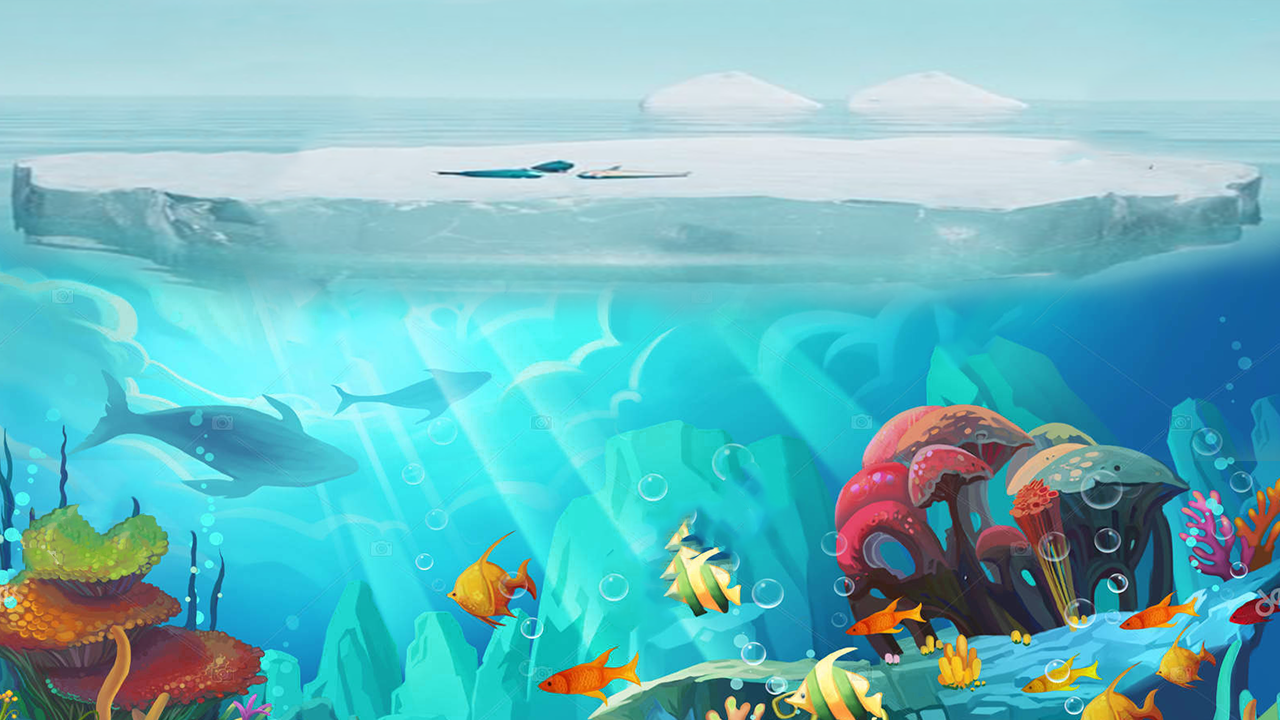
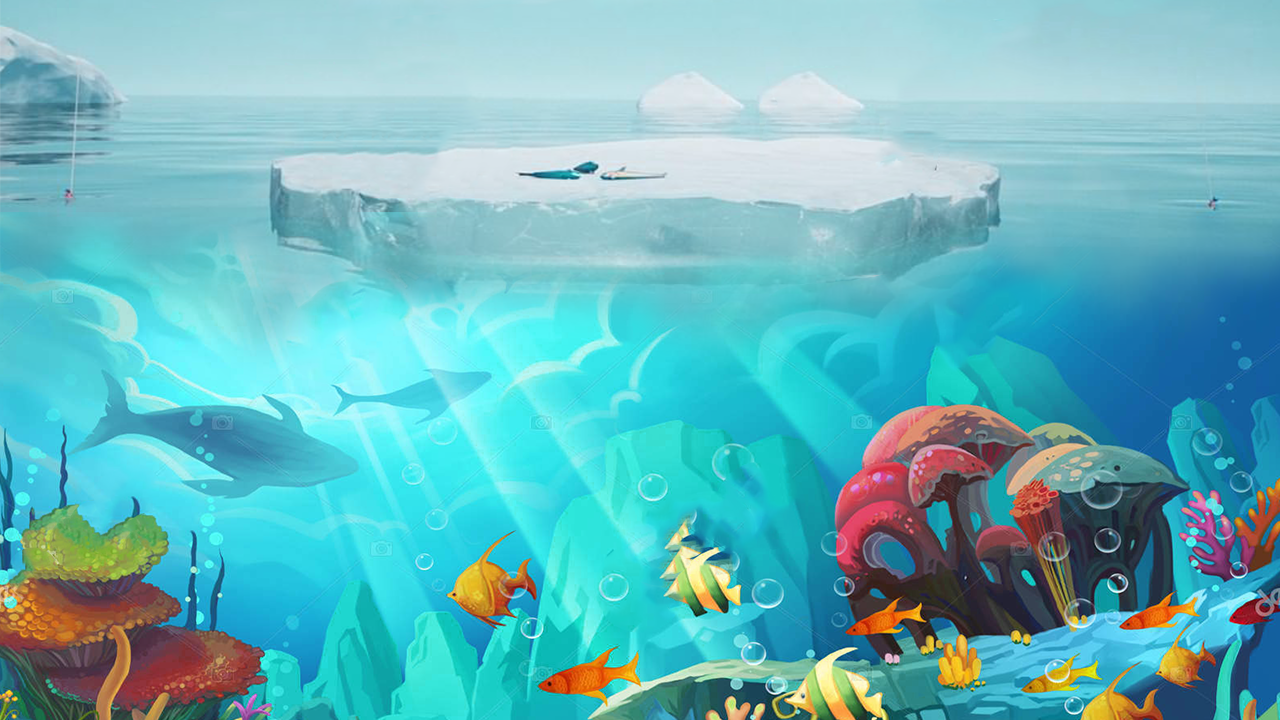
增加鱼叉与人物贴图，改变对应的变量名，去掉老旧无用的代码

diff --git a/js/index.js b/js/index.js
@@ -6,8 +6,8 @@ let cursors // 接收键盘消息对象的变量
 let limit_space = false // 限制空格连续按键
 let fish1_obj // 存放指定鱼1对象的变量
 let man_can_move_forward_to_x = true // 判断人是否可以继续向x轴方向移动
-let fishHook_status = "left" // ["left", "stop", "right", "extend_out", "extend_back"] // 鱼钩的摇摆状态
-let fishHook_is_swinging = true // 表示鱼钩是否在摆动
+let harpoon_status = "left" // ["left", "stop", "right", "extend_out", "extend_back"] // 鱼钩的摇摆状态
+let harpoon_is_swinging = true // 表示鱼钩是否在摆动
 let extend_forward_speed = 300 // 鱼钩伸出时的速度
 let extend_back_speed = 200 // 鱼钩伸回时的速度
 
@@ -37,25 +37,21 @@ function preload ()
     // preload() 预加载资源
     this.load.image("game_cover", "./images/game_cover.png")
     this.load.image("background", "./images/game_background.png")
-    this.load.image("man", "./images/man.png", 100, 100) // 忘记这俩参数干嘛的了
-    this.load.image("human", "./images/human.png")
-    this.load.image("fishHook", "./images/fishHook.png")
     this.load.image("fish1", "./images/fish1.png")
-    this.load.image("blue", "./images/blue.png")
+    this.load.image("man", "/images/no_weapon_man.png")
+    this.load.image("harpoon", "./images/harpoon1.png")
 }
 
 function create ()
 {
     // create() 创建资源、绑定各种交互函数
     this.add.image(canvasWidth / 2, canvasHeight / 2, "background") // add.image(x,y,objName) 的x和y的obj的中心点位置
-    // man = this.physics.add.image(canvasWidth / 2, 140, "man")
-    man = this.physics.add.image(canvasWidth / 2, 140, "human")
-    // man.setCollideWorldBounds(true) // 与屏幕碰撞后停止运动
+    man = this.physics.add.image(canvasWidth / 2, 120, "man").setScale(0.3)
 
-    // fishHook = this.physics.add.image(canvasWidth / 2, 250, "fishHook")
-    fishHook = this.physics.add.image(-100, 250, "fishHook")
-    fishHook.setOrigin(0, 0)
-    fishHook_init_height = fishHook.y // 定义钩子的初始高度
+    harpoon = this.physics.add.image(canvasWidth / 2 - 30, 80, "harpoon").setScale(0.4)
+
+    harpoon.setOrigin(0, 0)
+    harpoon_init_height = harpoon.y // 定义钩子的初始高度
 
     // 创建鱼1组
     fish1s = this.physics.add.group({
@@ -106,7 +102,7 @@ function create ()
     // 碰撞响应事件
 
     // 添加钩子与鱼1组的碰撞响应函数 
-    this.physics.add.collider(fishHook, fish1s, fishHook_collid_fish1s, null, this)
+    this.physics.add.collider(harpoon, fish1s, harpoon_collid_fish1s, null, this)
 
     // 键盘响应事件
     cursors = this.input.keyboard.createCursorKeys();
@@ -121,17 +117,17 @@ function update ()
         return
     }
 
-    fishHook_swing()
+    harpoon_swing()
 
     // 当人到达边界时的事件
     if(man.x <= 67) { // 当人到达左边界时
         man_can_move_forward_to_x = false // 禁止人向x轴移动
         man.x += 1 // 恢复行动的一种手段，同时具有撞击反弹特效
-        fishHook.x += 1
+        harpoon.x += 1
     } else if(man.x >= 1213) { // 当人到达右边界时
         man_can_move_forward_to_x = false // 禁止人向x轴移动
         man.x -= 1
-        fishHook.x -= 1
+        harpoon.x -= 1
     } else {
         man_can_move_forward_to_x = true // 恢复人向x轴移动
     }
@@ -139,22 +135,22 @@ function update ()
     
 
     // 如果钩子的高度小于钩子的初始高度(钩子伸出再缩回时会触发)
-    if(fishHook.y < fishHook_init_height) {
-        fishHook.setVelocityX(0) // 钩子停止移动
-        fishHook.setVelocityY(0) // 钩子停止移动
+    if(harpoon.y < harpoon_init_height) {
+        harpoon.setVelocityX(0) // 钩子停止移动
+        harpoon.setVelocityY(0) // 钩子停止移动
         if(fish1_obj){ // 如果指定fish1存在
             fish1_obj.disableBody(true, true) // 指定fish1消失
             fish1_obj.setVelocityY(0) // 指定fish1停止移动
             fish1_obj = null // 指定fish1消失后就变为null
         }
-        fishHook.y += 1 // 钩子到达原位置后有反弹的现象
+        harpoon.y += 1 // 钩子到达原位置后有反弹的现象
         limit_space = false // 恢复按下空格后的限制
-        fishHook_is_swinging = true // 恢复鱼钩的摆动
+        harpoon_is_swinging = true // 恢复鱼钩的摆动
     }
 
-    if(fishHook.y >= canvasHeight - 30) { // 钩子到达底下边界时
-        fishHook.setVelocityX(-(extend_back_speed * -Math.sin(fishHook.rotation))) // 钩子以extend_back_speed速度往回移动
-        fishHook.setVelocityY(-(extend_back_speed * Math.cos(fishHook.rotation))) // 钩子以extend_back_speed速度往回移动
+    if(harpoon.y >= canvasHeight - 30) { // 钩子到达底下边界时
+        harpoon.setVelocityX(-(extend_back_speed * -Math.sin(harpoon.rotation))) // 钩子以extend_back_speed速度往回移动
+        harpoon.setVelocityY(-(extend_back_speed * Math.cos(harpoon.rotation))) // 钩子以extend_back_speed速度往回移动
     }
     
 
@@ -167,17 +163,17 @@ function update ()
     // if(cursors.left.isDown) {
     //     if(!man_can_move_forward_to_x) return // 人和钩子的左右移动被限制
     //     man.x -= 5 // 人以5速度向左移动
-    //     fishHook.x -= 5 // 钩子以5速度向左移动
+    //     harpoon.x -= 5 // 钩子以5速度向左移动
     // } else if(cursors.right.isDown) {
     //     if(!man_can_move_forward_to_x) return // 人和钩子的左右移动被限制
     //     man.x += 5 // 人以5速度向右移动
-    //     fishHook.x += 5 // 钩子以5速度向右移动
+    //     harpoon.x += 5 // 钩子以5速度向右移动
     // } else 
     if(cursors.space.isDown) {
-        fishHook_is_swinging = false // 停止鱼钩的摆动
+        harpoon_is_swinging = false // 停止鱼钩的摆动
         limit_space = true // 打开限制，反之按空格之后响应其它按键操作
-        fishHook.setVelocityX(extend_forward_speed * -Math.sin(fishHook.rotation)) // 钩子以extend_forward_speed速度往目标方向移动
-        fishHook.setVelocityY(extend_forward_speed * Math.cos(fishHook.rotation)) // 钩子以extend_forward_speed速度往目标方向移动
+        harpoon.setVelocityX(extend_forward_speed * -Math.sin(harpoon.rotation)) // 钩子以extend_forward_speed速度往目标方向移动
+        harpoon.setVelocityY(extend_forward_speed * Math.cos(harpoon.rotation)) // 钩子以extend_forward_speed速度往目标方向移动
     }
     else {
 
@@ -193,27 +189,27 @@ function toAngle(n) {
 }
 
 // 钩子与fish1碰撞后的函数
-function fishHook_collid_fish1s(fishHook, fish1) {
-    fishHook.setVelocityX(-(extend_back_speed * -Math.sin(fishHook.rotation))) // 钩子以extend_back_speed速度往回移动
-    fishHook.setVelocityY(-(extend_back_speed * Math.cos(fishHook.rotation))) // 钩子以extend_back_speed速度往回移动
-    fish1.setVelocityX(-(extend_back_speed * -Math.sin(fishHook.rotation))) // 鱼1以extend_back_speed速度往回移动
-    fish1.setVelocityY(-(extend_back_speed * Math.cos(fishHook.rotation))) // 鱼1以extend_back_speed速度往回移动
+function harpoon_collid_fish1s(harpoon, fish1) {
+    harpoon.setVelocityX(-(extend_back_speed * -Math.sin(harpoon.rotation))) // 钩子以extend_back_speed速度往回移动
+    harpoon.setVelocityY(-(extend_back_speed * Math.cos(harpoon.rotation))) // 钩子以extend_back_speed速度往回移动
+    fish1.setVelocityX(-(extend_back_speed * -Math.sin(harpoon.rotation))) // 鱼1以extend_back_speed速度往回移动
+    fish1.setVelocityY(-(extend_back_speed * Math.cos(harpoon.rotation))) // 鱼1以extend_back_speed速度往回移动
     fish1_obj = fish1 // 将特定的fish1对象放到全局，供其它函数使用
 }
 
 // 鱼钩的摆动函数
-function fishHook_swing() {
-    if(!fishHook_is_swinging) { // 鱼钩被限制摆动时
+function harpoon_swing() {
+    if(!harpoon_is_swinging) { // 鱼钩被限制摆动时
         return
     }
-    if(fishHook_status == "left") { // 鱼钩状态是向左摆动
-        fishHook.rotation += toAngle(1) // 每帧向左偏移一度
-    } else if(fishHook_status == "right") { // 鱼钩状态是向右摆动
-        fishHook.rotation -= toAngle(1) // 每帧向右偏移一度
+    if(harpoon_status == "left") { // 鱼钩状态是向左摆动
+        harpoon.rotation += toAngle(1) // 每帧向左偏移一度
+    } else if(harpoon_status == "right") { // 鱼钩状态是向右摆动
+        harpoon.rotation -= toAngle(1) // 每帧向右偏移一度
     }
-    if(fishHook.rotation >= toAngle(60)) { // 偏移达到60度时，开始向左偏移
-        fishHook_status = "right" // 更改偏移方向向左
-    } else if(fishHook.rotation <= toAngle(-45)) { // 偏移达到-45度时，开始向左偏移
-        fishHook_status = "left" // 更改偏移方向向右
+    if(harpoon.rotation >= toAngle(60)) { // 偏移达到60度时，开始向左偏移
+        harpoon_status = "right" // 更改偏移方向向左
+    } else if(harpoon.rotation <= toAngle(-45)) { // 偏移达到-45度时，开始向左偏移
+        harpoon_status = "left" // 更改偏移方向向右
     }
 }

diff --git a/index.html b/index.html
@@ -1,5 +1,5 @@
 <!DOCTYPE html>
-<html lang="en">
+<html lang="zh-CN">
 <head>
     <meta charset="UTF-8">
     <meta http-equiv="X-UA-Compatible" content="IE=edge">
